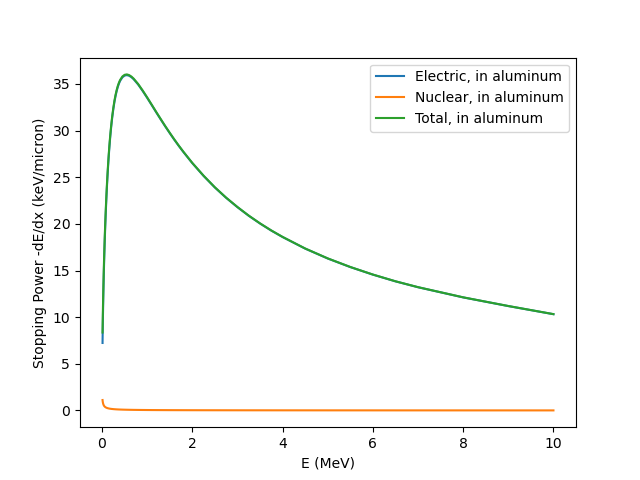
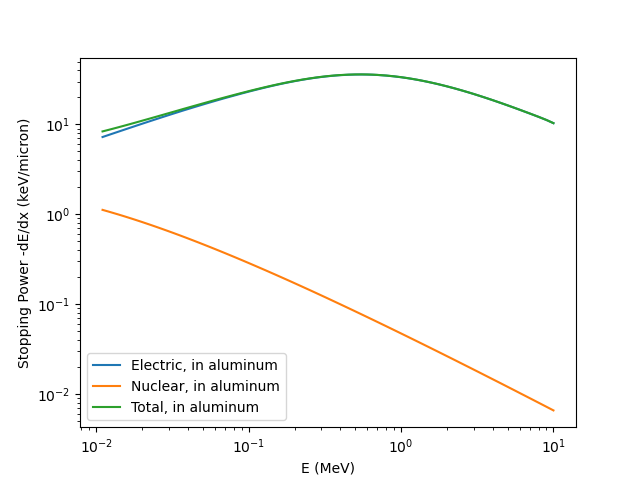
Updated SRIM plots to logarithmic axes

diff --git a/plots.py b/plots.py
@@ -231,12 +231,12 @@ air_E = [get_peak_E(f"data/Air, {d}, TRANSMIT.txt")/1e3 for d in air_dist[:-1]] 
 
 air_dEdx = [(air_E[i] - air_E[i+1])/(air_dist[i+1]-air_dist[i]) for i in range(len(air_dist)-1)]
 air_Ed = [(air_E[i] + air_E[i+1])/2 for i in range(len(air_E)-1)]
-plt.scatter(air_Ed, air_dEdx, label="Air")
-print(air_dEdx)
-plt.xlabel("Energy (keV)")
-plt.ylabel("Stopping power -dE/dx (keV/mm)")
-plt.legend()
-plt.show()
+# plt.scatter(air_Ed, air_dEdx, label="Air")
+# print(air_dEdx)
+# plt.xlabel("Energy (keV)")
+# plt.ylabel("Stopping power -dE/dx (keV/mm)")
+# plt.legend()
+# plt.show()
 
 # al_E = al_x
 
@@ -280,13 +280,14 @@ def plot_dEdx(path, skip, mat, trans_est):
         plt.scatter(trans_est[0], trans_est[1], label=f"Total in {mat}, Transmission estimate")
     plt.xlabel("E (MeV)")
     plt.ylabel("Stopping Power -dE/dx (keV/micron)")
+    plt.loglog()
     plt.legend()
     plt.show()
 
     return E, Se, Sn, St
 
-# plot_dEdx("data/SRIM_ Helium in Aluminum", 24, "aluminum", None)
-# plot_dEdx("data/SRIM_ Helium in Mylar", 26, "Mylar", ([e/1e3 for e in my_Ed], [e for e in my_dEdx]))
+plot_dEdx("data/SRIM_ Helium in Aluminum", 24, "aluminum", None)
+plot_dEdx("data/SRIM_ Helium in Mylar", 26, "Mylar", ([e/1e3 for e in my_Ed], [e for e in my_dEdx]))
 plot_dEdx("data/SRIM_ Helium in Air, Dry (gas)", 28, "air", ([e/1e3 for e in air_Ed], [e/1e3 for e in air_dEdx]))
 
 def load_range(path, skip):
